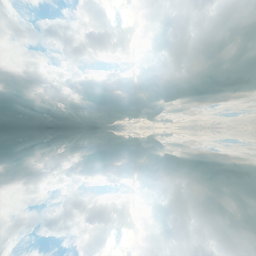
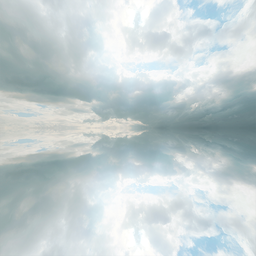
fixed skybox seams.

diff --git a/ewa/gl/cube_map_texture.cpp b/ewa/gl/cube_map_texture.cpp
@@ -38,6 +38,15 @@ CubeMapTexture* CubeMapTexture::Load(int size) {
     Texture::SetActiveTextureUnit(0);
     cubeMap->Bind();
 
+    GL_C(glTexParameteri(GL_TEXTURE_CUBE_MAP, GL_TEXTURE_WRAP_S, GL_CLAMP_TO_EDGE));
+    GL_C(glTexParameteri(GL_TEXTURE_CUBE_MAP, GL_TEXTURE_WRAP_T, GL_CLAMP_TO_EDGE));
+    GL_C(glTexParameteri(GL_TEXTURE_CUBE_MAP, GL_TEXTURE_WRAP_R, GL_CLAMP_TO_EDGE));
+    GL_C(glTexParameteri(GL_TEXTURE_CUBE_MAP, GL_TEXTURE_MAG_FILTER, GL_LINEAR));
+    GL_C(glTexParameteri(GL_TEXTURE_CUBE_MAP, GL_TEXTURE_MIN_FILTER, GL_LINEAR));
+    GL_C(glTexParameteri(GL_TEXTURE_CUBE_MAP, GL_TEXTURE_BASE_LEVEL, 0));
+    GL_C(glTexParameteri(GL_TEXTURE_CUBE_MAP, GL_TEXTURE_MAX_LEVEL, 0));
+
+    GL_C(glEnable(GL_TEXTURE_CUBE_MAP_SEAMLESS));
 
     struct RGBA {
 	GLubyte r;
@@ -60,6 +69,13 @@ CubeMapTexture* CubeMapTexture::Load(int size) {
 	glTexImage2D(
 	    GL_TEXTURE_CUBE_MAP_POSITIVE_X+i, 0, GL_RGBA8 , size,size, 0, GL_RGBA, GL_UNSIGNED_BYTE,
 	    /*&d[0]*/ nullptr);
+/*
+
+
+	GL_C(glTexParameteri( GL_TEXTURE_2D, GL_TEXTURE_WRAP_S, GL_CLAMP_TO_EDGE ));
+	GL_C(glTexParameteri( GL_TEXTURE_2D, GL_TEXTURE_WRAP_T, GL_CLAMP_TO_EDGE ));
+*/
+
 
 //    GL_C(glGenerateMipmap(m_target));
 
@@ -71,10 +87,13 @@ CubeMapTexture* CubeMapTexture::Load(int size) {
 
     }*/
 
+//    cubeMap->SetTextureClamping();
+    //  cubeMap->SetTextureWrap(GL_CLAMP_TO_EDGE, GL_CLAMP_TO_EDGE);
 
 
-    cubeMap->GenerateMipmap();
-    cubeMap->Unbind();
+
+//    cubeMap->GenerateMipmap();
+    //  cubeMap->Unbind();
 
     return cubeMap;
 

diff --git a/samples/game/src/height_map.cpp b/samples/game/src/height_map.cpp
@@ -59,7 +59,13 @@ constexpr unsigned short MID_HEIGHT = 32768;
 constexpr unsigned short MIN_HEIGHT = 0;
 
 
+Vector2f CatmullRomSpline(const Vector2f &P1,const Vector2f &P2,const Vector2f &P3,const Vector2f &P4,float t)
+{
+    float t2 = t * t;
+    float t3 = t * t2;
 
+    return ((P2 * 2.0f) + (-P1 + P3) * t + (P1 * 2.0f - P2 * 5.0f + P3 * 4.0f - P4) * t2 + (-P1 + P2 * 3.0f - P3 * 3.0f + P4) * t3) * 0.5f;
+}
 
 static Texture* LoadTexture(const string& filename) {
     Texture* texture = Texture2D::Load(filename);
@@ -83,6 +89,11 @@ void HeightMap::Init(
     const std::string& splatMapFilename,
     const std::string& aoMapFilename,
     bool guiMode ) {
+
+    // (-0.020900, 0.718350)
+    Vector2f s = CatmullRomSpline(Vector2f(0.0, 0.0),Vector2f(-0.2, 0.6),Vector2f(0.6, 0.9),Vector2f(1.0, 1.0), 0.3);
+
+    LOG_I(" mah s: %s", std::string(s).c_str()  );
 
     m_aabbWireframe = Cube::Load();
 
@@ -2400,13 +2411,7 @@ void HeightMap::AddControlPoint() {
     m_controlPoints.push_back(m_cursorPosition);
 }
 
-Vector2f CatmullRomSpline(const Vector2f &P1,const Vector2f &P2,const Vector2f &P3,const Vector2f &P4,float t)
-{
-    float t2 = t * t;
-    float t3 = t * t2;
 
-    return ((P2 * 2.0f) + (-P1 + P3) * t + (P1 * 2.0f - P2 * 5.0f + P3 * 4.0f - P4) * t2 + (-P1 + P2 * 3.0f - P3 * 3.0f + P4) * t3) * 0.5f;
-}
 
 void HeightMap::BuildRoad() {
 

diff --git a/ewa/camera.cpp b/ewa/camera.cpp
@@ -75,7 +75,7 @@ float NORMAL_SPEED = 0.4;
     m_useCp = false;
 
 
-/*
+
 // move through torches section
 m_cps.push_back(CameraCP(Vector3f(-83.791084, 27.635519, 11.390510),Vector3f(0.174189, -0.215369, -0.960872), NORMAL_SPEED));
 m_cps.push_back(CameraCP(Vector3f(-78.415321, 21.640173, -18.104256),Vector3f(0.179770, -0.148452, -0.972443), NORMAL_SPEED));
@@ -171,7 +171,7 @@ m_cps.push_back(CameraCP(Vector3f(-14.257308, 8.668011, 30.124790),Vector3f(-0.9
 m_cps.push_back(CameraCP(Vector3f(-25.122328, 7.041368, 31.184303),Vector3f(-0.980469, -0.172820, 0.093879), NORMAL_SPEED));
 m_cps.push_back(CameraCP(Vector3f(-45.267605, 7.930465, 33.113194),Vector3f(-0.980469, -0.172820, 0.093879), NORMAL_SPEED));
 m_cps.push_back(CameraCP(Vector3f(-62.882065, 13.570691, 34.799759),Vector3f(-0.980469, -0.172820, 0.093879), NORMAL_SPEED));
-*/
+
 }
 
 

diff --git a/samples/game/src/tuhu_application.cpp b/samples/game/src/tuhu_application.cpp
@@ -217,12 +217,33 @@ void TuhuApplication::Init() {
     m_dualParaboloidMap = new DualParaboloidMap();
 
     m_cubeMapTexture = CubeMapTexture::Load(
+/*
 	"img/bluecloud_ft.png",
 	"img/bluecloud_bk.png",
 	"img/bluecloud_lf.png",
 	"img/bluecloud_rt.png",
 	"img/bluecloud_up.png",
 	"img/bluecloud_dn.png"
+*/
+
+
+/*
+	"img/ft.png",
+	"img/bk.png",
+	"img/lf.png",
+	"img/rt.png",
+	"img/up.png",
+	"img/dn.png"
+*/
+
+	"img/daylight_ft.png",
+	"img/daylight_bk.png",
+	"img/daylight_lf.png",
+	"img/daylight_rt.png",
+	"img/daylight_up.png",
+	"img/daylight_dn.png"
+
+
 	);
     if(m_cubeMapTexture == NULL) {
 	PrintErrorExit();

diff --git a/samples/game/src/height_map.hpp b/samples/game/src/height_map.hpp
@@ -320,7 +320,7 @@ public:
     void RenderShadowMap(const Matrix4f& lightVp);
 
 
-	void HeightMap::RenderParaboloid(const Paraboloid& paraboloid, const Vector4f& lightPosition, bool aoOnly) {
+	void RenderParaboloid(const Paraboloid& paraboloid, const Vector4f& lightPosition, bool aoOnly) {
 		m_envShader->Bind();
 
 		m_envShader->SetUniform("aoOnly", aoOnly ? 1.0f : 0.0f);
